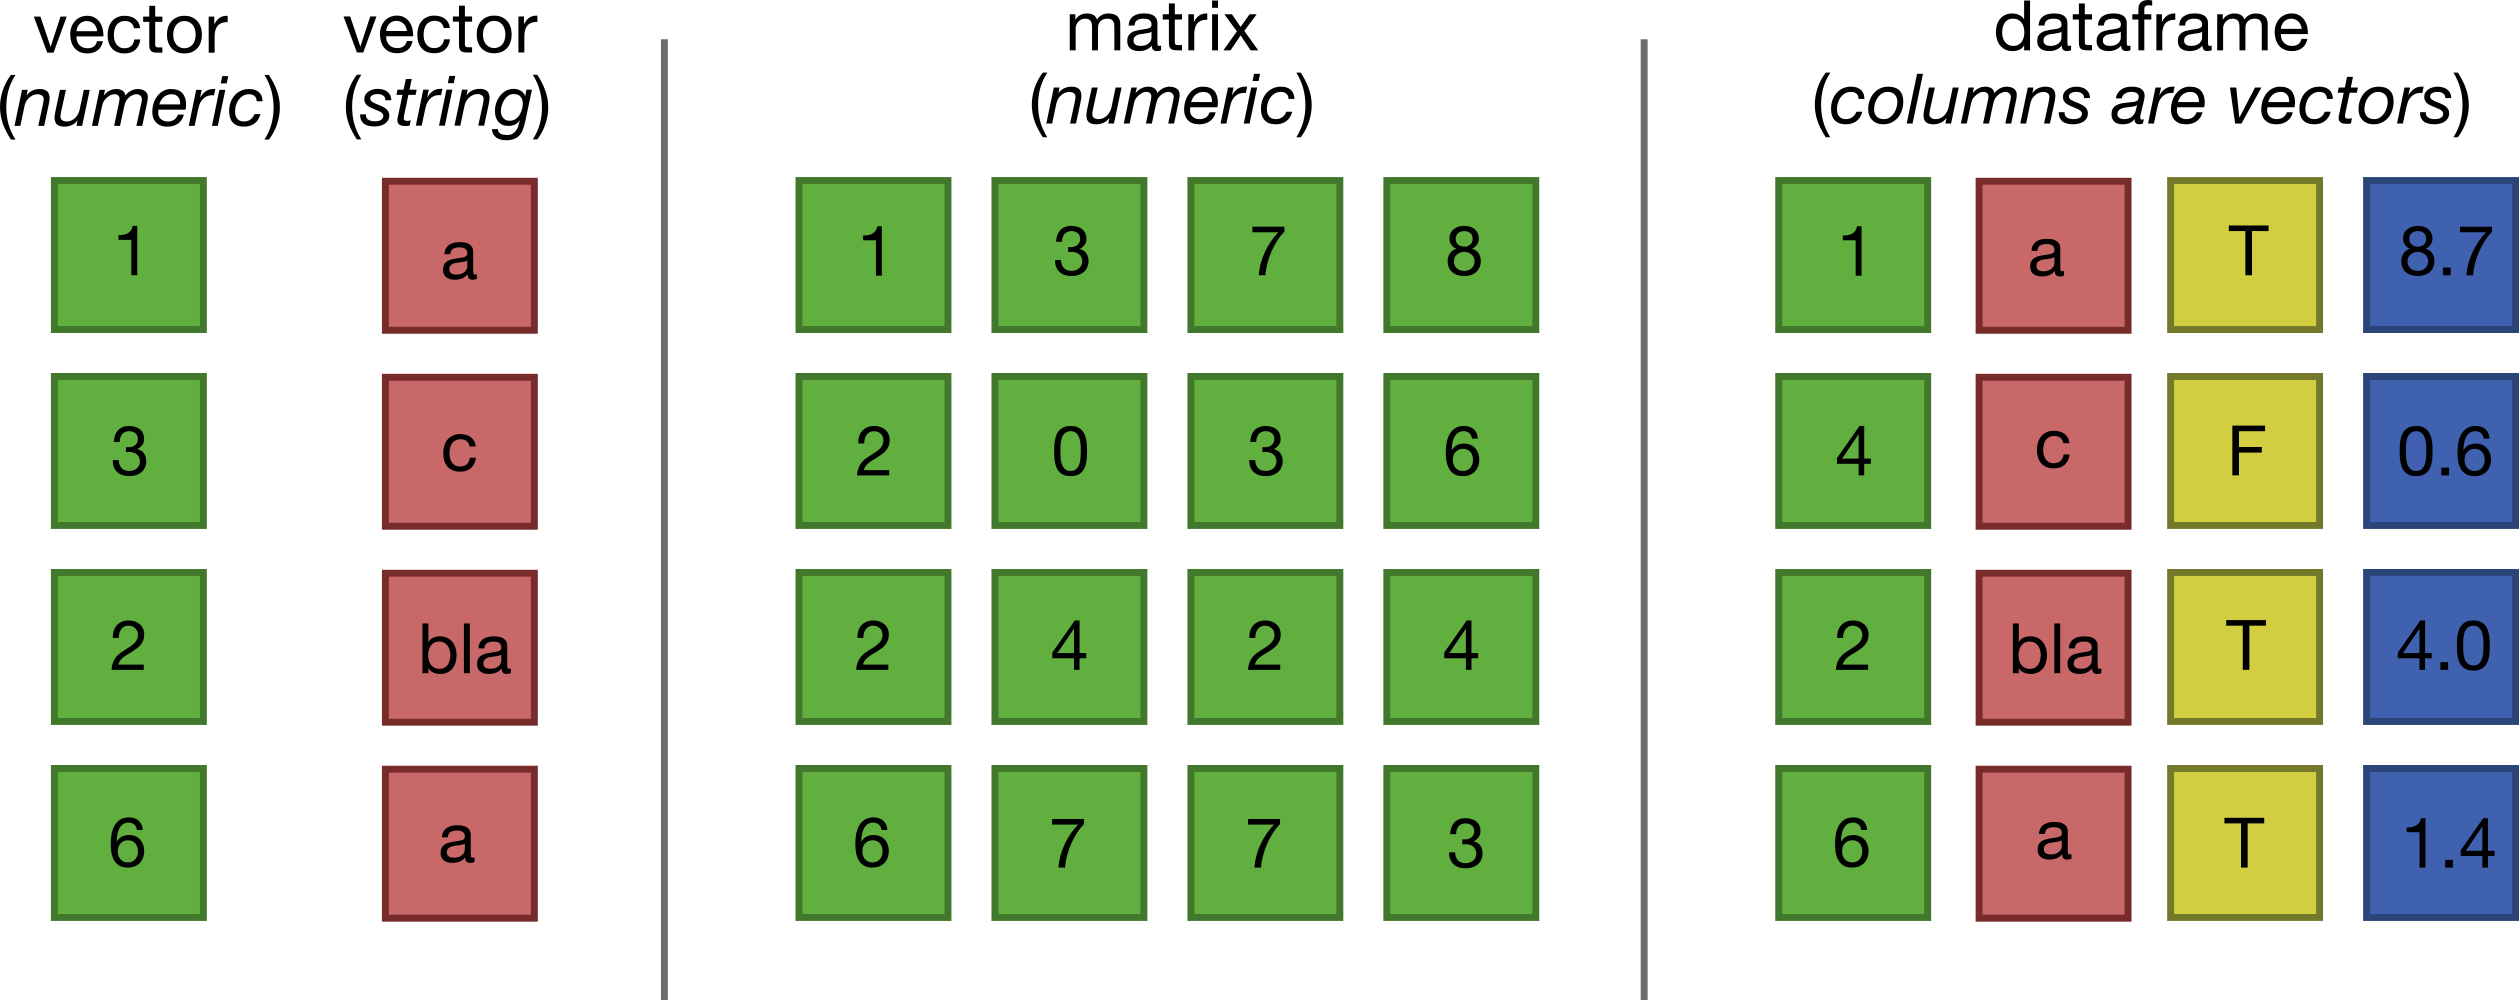
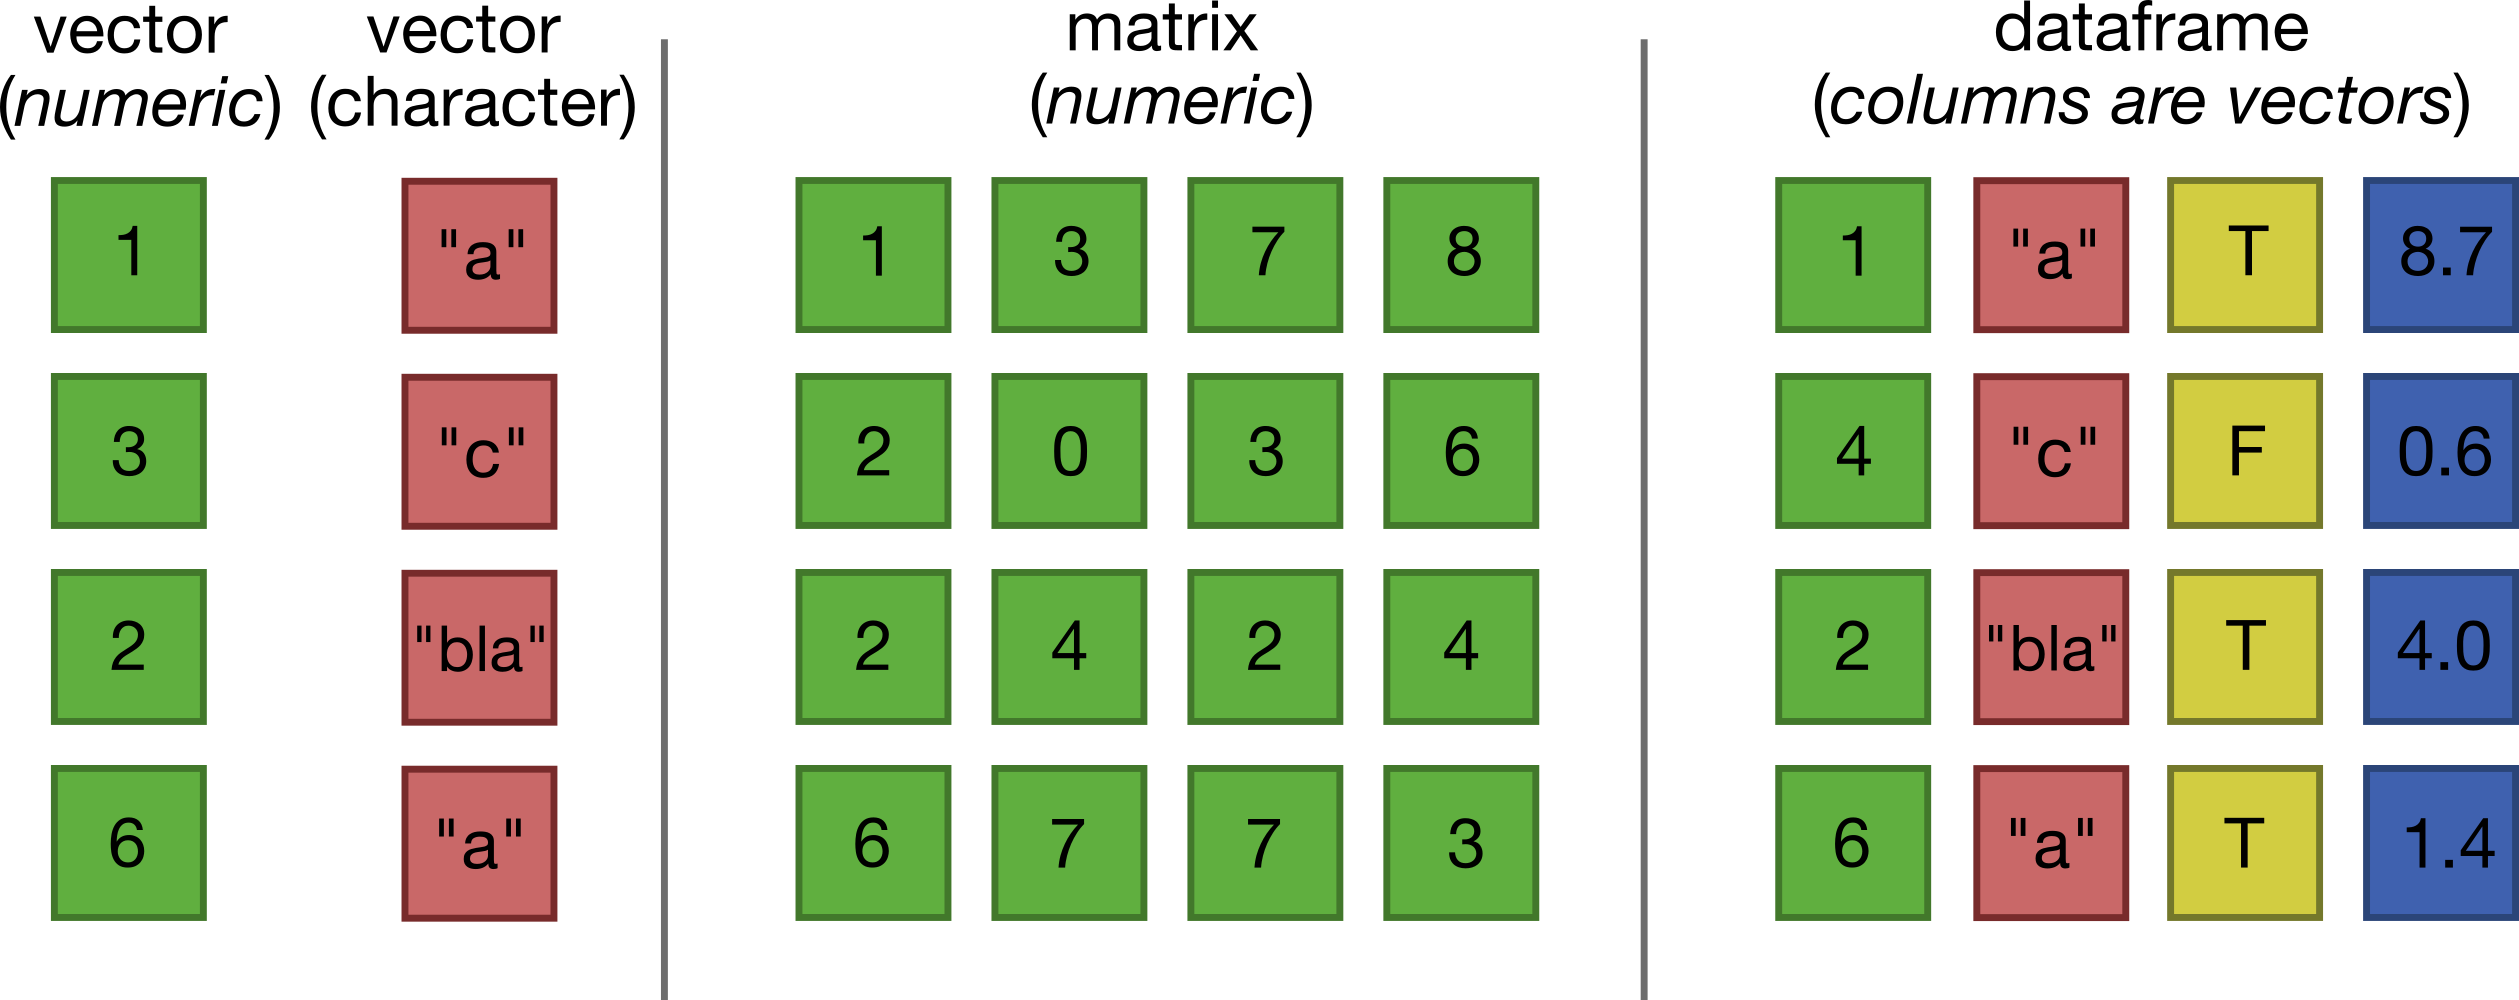
Dispatch book 2025-01-30

diff --git a/Appendices/antwoorden_R.html b/Appendices/antwoorden_R.html
@@ -921,7 +921,7 @@ In stap 100 is de waarde van x 4.6 </code></pre>
 <h2 class="anchored" data-anchor-id="oefentoetsje-r">Oefentoetsje R</h2>
 <p><a href="../Programmeren/intro_R_questions.html#exr-R-1" class="quarto-xref">Oefening&nbsp;<span>5</span></a></p>
 <p><strong>a.</strong> Een matrix is een tabel met allemaal dezelfde type waarden, terwijl een dataframe voor elke kolom een ander type data kan bevatten.</p>
-<p><strong>b.</strong> Hoewel er een nummer staat, is <code>x</code> een string omdat het tussen aanhalingstekens staat.</p>
+<p><strong>b.</strong> Hoewel er een nummer staat, is <code>x</code> van het type ‘character’ omdat het tussen aanhalingstekens staat.</p>
 <p><strong>c.</strong> De tweede waarde van de vector x is 1.5.</p>
 <div class="cell">
 <div class="sourceCode cell-code" id="cb44"><pre class="sourceCode r code-with-copy"><code class="sourceCode r"><span id="cb44-1"><a href="#cb44-1" aria-hidden="true" tabindex="-1"></a>x <span class="ot">&lt;-</span> <span class="fu">seq</span>(<span class="dv">1</span>,<span class="dv">10</span>,<span class="at">by=</span><span class="fl">0.5</span>)</span>

diff --git a/Appendices/antwoorden_modellen.html b/Appendices/antwoorden_modellen.html
@@ -2927,7 +2927,7 @@ window.document.addEventListener("DOMContentLoaded", function (event) {
 </div>
   </div>
 </footer>
-<script>var lightboxQuarto = GLightbox({"descPosition":"bottom","loop":false,"openEffect":"zoom","closeEffect":"zoom","selector":".lightbox"});
+<script>var lightboxQuarto = GLightbox({"loop":false,"openEffect":"zoom","closeEffect":"zoom","selector":".lightbox","descPosition":"bottom"});
 (function() {
   let previousOnload = window.onload;
   window.onload = () => {

diff --git a/Appendices/antwoorden_wiskunde.html b/Appendices/antwoorden_wiskunde.html
@@ -1480,7 +1480,7 @@ window.document.addEventListener("DOMContentLoaded", function (event) {
 </div>
   </div>
 </footer>
-<script>var lightboxQuarto = GLightbox({"openEffect":"zoom","descPosition":"bottom","selector":".lightbox","closeEffect":"zoom","loop":false});
+<script>var lightboxQuarto = GLightbox({"closeEffect":"zoom","loop":false,"openEffect":"zoom","descPosition":"bottom","selector":".lightbox"});
 (function() {
   let previousOnload = window.onload;
   window.onload = () => {

diff --git a/Modellen/competitie.html b/Modellen/competitie.html
@@ -1828,7 +1828,7 @@ window.document.addEventListener("DOMContentLoaded", function (event) {
 </div>
   </div>
 </footer>
-<script>var lightboxQuarto = GLightbox({"selector":".lightbox","closeEffect":"zoom","openEffect":"zoom","descPosition":"bottom","loop":false});
+<script>var lightboxQuarto = GLightbox({"closeEffect":"zoom","descPosition":"bottom","openEffect":"zoom","loop":false,"selector":".lightbox"});
 (function() {
   let previousOnload = window.onload;
   window.onload = () => {

diff --git a/Modellen/dichtheidseffecten.html b/Modellen/dichtheidseffecten.html
@@ -1481,7 +1481,7 @@ window.document.addEventListener("DOMContentLoaded", function (event) {
 </div>
   </div>
 </footer>
-<script>var lightboxQuarto = GLightbox({"openEffect":"zoom","closeEffect":"zoom","descPosition":"bottom","selector":".lightbox","loop":false});
+<script>var lightboxQuarto = GLightbox({"openEffect":"zoom","descPosition":"bottom","selector":".lightbox","closeEffect":"zoom","loop":false});
 (function() {
   let previousOnload = window.onload;
   window.onload = () => {

diff --git a/Modellen/exciteerbaremedia.html b/Modellen/exciteerbaremedia.html
@@ -1695,7 +1695,7 @@ window.document.addEventListener("DOMContentLoaded", function (event) {
 </div>
   </div>
 </footer>
-<script>var lightboxQuarto = GLightbox({"loop":false,"descPosition":"bottom","openEffect":"zoom","selector":".lightbox","closeEffect":"zoom"});
+<script>var lightboxQuarto = GLightbox({"descPosition":"bottom","loop":false,"selector":".lightbox","closeEffect":"zoom","openEffect":"zoom"});
 (function() {
   let previousOnload = window.onload;
   window.onload = () => {

diff --git a/Modellen/exponentielegroei.html b/Modellen/exponentielegroei.html
@@ -1476,7 +1476,7 @@ window.document.addEventListener("DOMContentLoaded", function (event) {
 </div>
   </div>
 </footer>
-<script>var lightboxQuarto = GLightbox({"closeEffect":"zoom","selector":".lightbox","loop":false,"descPosition":"bottom","openEffect":"zoom"});
+<script>var lightboxQuarto = GLightbox({"closeEffect":"zoom","loop":false,"openEffect":"zoom","selector":".lightbox","descPosition":"bottom"});
 (function() {
   let previousOnload = window.onload;
   window.onload = () => {

diff --git a/Modellen/intro_modellen.html b/Modellen/intro_modellen.html
@@ -1335,7 +1335,7 @@ window.document.addEventListener("DOMContentLoaded", function (event) {
 </div>
   </div>
 </footer>
-<script>var lightboxQuarto = GLightbox({"descPosition":"bottom","loop":false,"closeEffect":"zoom","openEffect":"zoom","selector":".lightbox"});
+<script>var lightboxQuarto = GLightbox({"loop":false,"openEffect":"zoom","selector":".lightbox","closeEffect":"zoom","descPosition":"bottom"});
 (function() {
   let previousOnload = window.onload;
   window.onload = () => {

diff --git a/Modellen/odes_basis.html b/Modellen/odes_basis.html
@@ -1816,7 +1816,7 @@ window.document.addEventListener("DOMContentLoaded", function (event) {
 </div>
   </div>
 </footer>
-<script>var lightboxQuarto = GLightbox({"selector":".lightbox","openEffect":"zoom","descPosition":"bottom","loop":false,"closeEffect":"zoom"});
+<script>var lightboxQuarto = GLightbox({"selector":".lightbox","closeEffect":"zoom","openEffect":"zoom","loop":false,"descPosition":"bottom"});
 (function() {
   let previousOnload = window.onload;
   window.onload = () => {

diff --git a/Modellen/odes_grind.html b/Modellen/odes_grind.html
@@ -1718,7 +1718,7 @@ window.document.addEventListener("DOMContentLoaded", function (event) {
 </div>
   </div>
 </footer>
-<script>var lightboxQuarto = GLightbox({"selector":".lightbox","openEffect":"zoom","descPosition":"bottom","closeEffect":"zoom","loop":false});
+<script>var lightboxQuarto = GLightbox({"selector":".lightbox","descPosition":"bottom","openEffect":"zoom","loop":false,"closeEffect":"zoom"});
 (function() {
   let previousOnload = window.onload;
   window.onload = () => {

diff --git a/Modellen/predatorprooi.html b/Modellen/predatorprooi.html
@@ -1953,7 +1953,7 @@ window.document.addEventListener("DOMContentLoaded", function (event) {
 </div>
   </div>
 </footer>
-<script>var lightboxQuarto = GLightbox({"selector":".lightbox","loop":false,"descPosition":"bottom","openEffect":"zoom","closeEffect":"zoom"});
+<script>var lightboxQuarto = GLightbox({"selector":".lightbox","openEffect":"zoom","descPosition":"bottom","loop":false,"closeEffect":"zoom"});
 (function() {
   let previousOnload = window.onload;
   window.onload = () => {

diff --git a/Modellen/project.html b/Modellen/project.html
@@ -1183,7 +1183,7 @@ window.document.addEventListener("DOMContentLoaded", function (event) {
 </div>
   </div>
 </footer>
-<script>var lightboxQuarto = GLightbox({"selector":".lightbox","descPosition":"bottom","closeEffect":"zoom","loop":false,"openEffect":"zoom"});
+<script>var lightboxQuarto = GLightbox({"openEffect":"zoom","closeEffect":"zoom","loop":false,"descPosition":"bottom","selector":".lightbox"});
 (function() {
   let previousOnload = window.onload;
   window.onload = () => {
